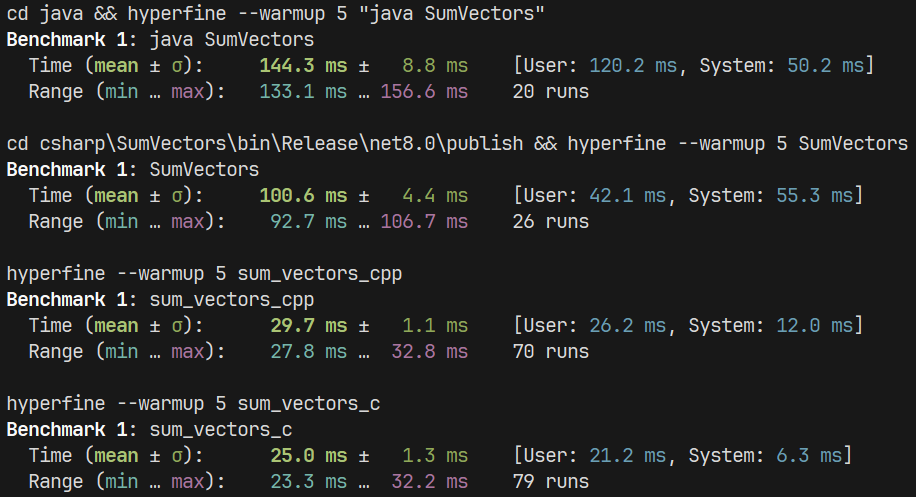
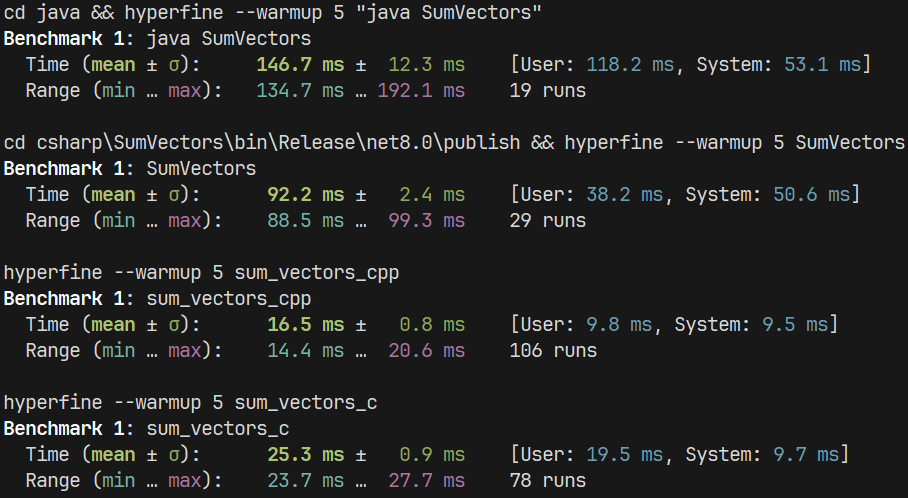
Update C++

diff --git a/sum_vectors.cpp b/sum_vectors.cpp
@@ -1,26 +1,18 @@
-#include <cstddef>
+#include <algorithm>
 #include <iostream>
+#include <ranges>
 #include <vector>
 
 int main() {
-  const size_t N = 10'000'000;
+    const int N = 10'000'000;
 
-  std::vector<int> a(N), b(N);
+    std::ranges::iota_view<int, int> a(1, N+1);
+    std::ranges::iota_view<int, int> b(1, N+1);
+    std::vector<int> c(N);
 
-  for (size_t i = 0; i < N; ++i) {
-   a[i] = i + 1; 
-   b[i] = i + 1; 
-  }
-
-  for (size_t i = 0; i < N; ++i) {
-    a[i] += b[i];
-  }
-
-  std::cout << "last element = " << a[N - 1] << std::endl;
-
-  std::vector<int>().swap(a);
-  std::vector<int>().swap(b);
-
-  return 0;
+    std::ranges::transform(a, b, c.begin(), std::plus{});
+  
+    std::cout << "last element = " << c[N - 1] << std::endl;
+    return 0;
 }
 
